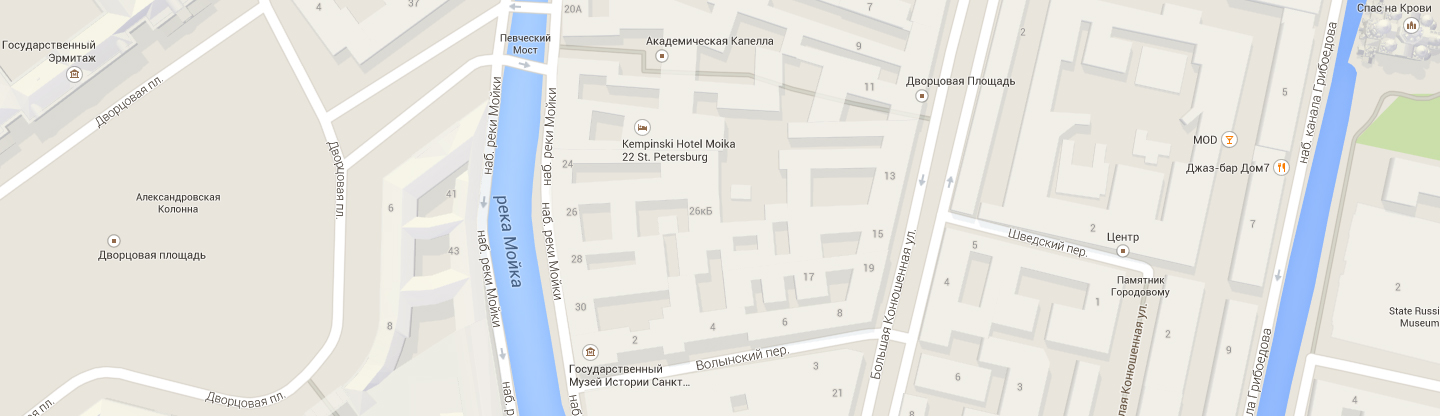
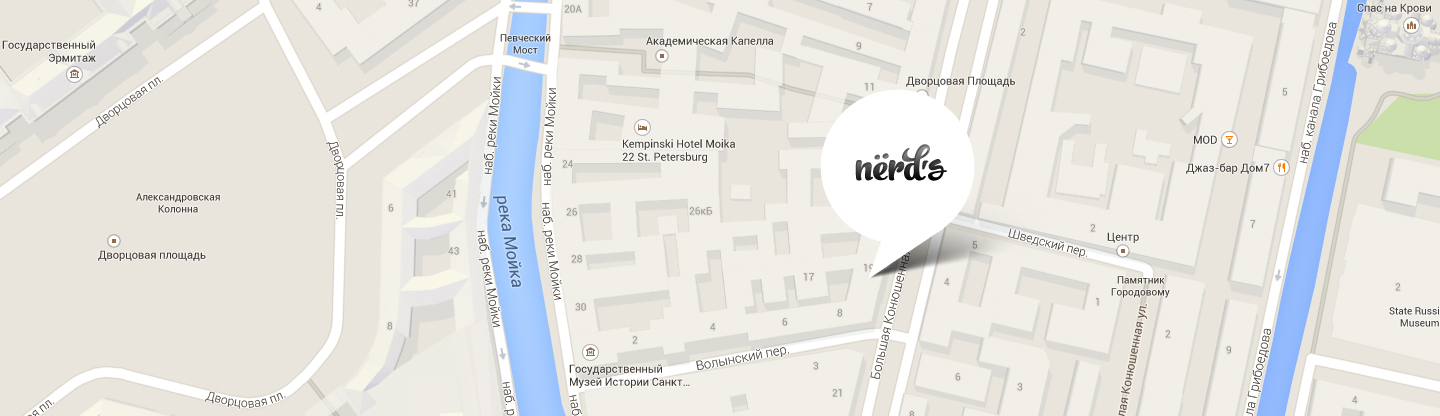
06

Changed region(s): [[0.5625, 0.2188, 0.6875, 0.6562]]

diff --git a/catalog.html b/catalog.html
@@ -164,14 +164,18 @@
       </div>
     </section>
     <section id="contacts" class="contacts">
-      <div class="adress-wrap">
-        <h2>NЁRDS DESIGN STUDIO</h2>
-        <p class="adress">191186, Санкт-Петербург, ул. Б. Конюшенная, д. 19/8</p>
-        <p class="phone"><a href="tel:+781227575">тел. +7 (812) 275-75-75</a></p>
-        <button type="button" class="modal-show button">НАПИШИТЕ НАМ</button>
-      </div>
-      <img src="img/map.jpg" alt="191186, Санкт-Петербург,  ул. Б. Конюшенная, д. 19/8" class="map" width="1440" height="416">
-    </section>
+			<div class="map">
+					<iframe src="https://yandex.ru/map-widget/v1/?um=constructor%3Af7e4bd7fd5ce65ff159f0085423be5165b642d6c57912719859cdbb1198cce18&amp;source=constructor" width="1440" height="416"></iframe>
+				<div class="container">
+			<div class="adress-wrap">
+				<h2>NЁRDS DESIGN STUDIO</h2>
+				<p class="adress">191186, Санкт-Петербург, ул. Б. Конюшенная, д. 19/8</p>
+				<p class="phone"><a href="tel:+781227575">тел. +7 (812) 275-75-75</a></p>
+				<button type="button" class="modal-show button">НАПИШИТЕ НАМ</button>
+			</div>
+			</div>
+			</div>
+		</section>
   </main>
   <footer class="footer-wrap container">
     <div class="socials">

diff --git a/index.html b/index.html
@@ -10,7 +10,7 @@
 <body>
 	<header class="main-header">
 		<nav class="main-nav container">
-			<a href="index.html">
+			<a>
 				<img class="logo" src="img/nerds-logo.svg" width="160" height="65" alt="студия Нёрдс">
 			</a>
 			<ul class="site-nav">
@@ -116,12 +116,16 @@
 			</ul>
 		</section>
 		<section id="contacts" class="contacts">
-			<img src="img/map.jpg" alt="191186, Санкт-Петербург,  ул. Б. Конюшенная, д. 19/8" class="map" width="1440" height="416">
+			<div class="map">
+					<iframe src="https://yandex.ru/map-widget/v1/?um=constructor%3Af7e4bd7fd5ce65ff159f0085423be5165b642d6c57912719859cdbb1198cce18&amp;source=constructor" width="1440" height="416"></iframe>
+				<div class="container">
 			<div class="adress-wrap">
 				<h2>NЁRDS DESIGN STUDIO</h2>
 				<p class="adress">191186, Санкт-Петербург, ул. Б. Конюшенная, д. 19/8</p>
 				<p class="phone"><a href="tel:+781227575">тел. +7 (812) 275-75-75</a></p>
 				<button type="button" class="modal-show button">НАПИШИТЕ НАМ</button>
+			</div>
+			</div>
 			</div>
 		</section>
 	</main>   

diff --git a/css/style.css b/css/style.css
@@ -346,6 +346,7 @@ input[type="radio"].visually-hidden {
   display: -webkit-box;
   display: -ms-flexbox;
   display: flex;
+  flex-wrap: wrap;
   margin: 0;
   padding: 0;
 }
@@ -561,12 +562,18 @@ sup {
 
 /*---Contacts---*/
 
-.contacts {
-  display: -webkit-box;
-  display: -ms-flexbox;
-  display: flex;
+.map {
+  width: 100%;
+  height: 416px;
+  background: url(../img/map.jpg) 50% 50% no-repeat #b5b5b5;
+  box-sizing: border-box;
   position: relative;
-  margin: auto;
+  margin-top: 80px;
+}
+
+iframe {
+  width: 100%;
+  border: 0;
 }
 
 .adress-wrap h2 {
@@ -593,19 +600,8 @@ sup {
   width: 318px;
   height: 308px;
   background-color: #ffffff;
-  top: 135px;
-  left: 380px;
-}
-
-.map {
-  margin: 80px auto 40px;
-}
-
-.adress-wrap::after {
-  content: url("../img/map-marker.png");
-  position: absolute;
-  top: 30px;
-  left: 675px;
+  z-index: 1;
+  top: 55px;
 }
 
 .modal-show.button {
@@ -694,6 +690,7 @@ sup {
   background-color: #ffffff;
   -webkit-box-shadow: 0 30px 50px rgba(0, 0, 0, 0.7);
   box-shadow: 0 30px 50px rgba(0, 0, 0, 0.7);
+  z-index: 1;
 }
 
 .appointment-show {
